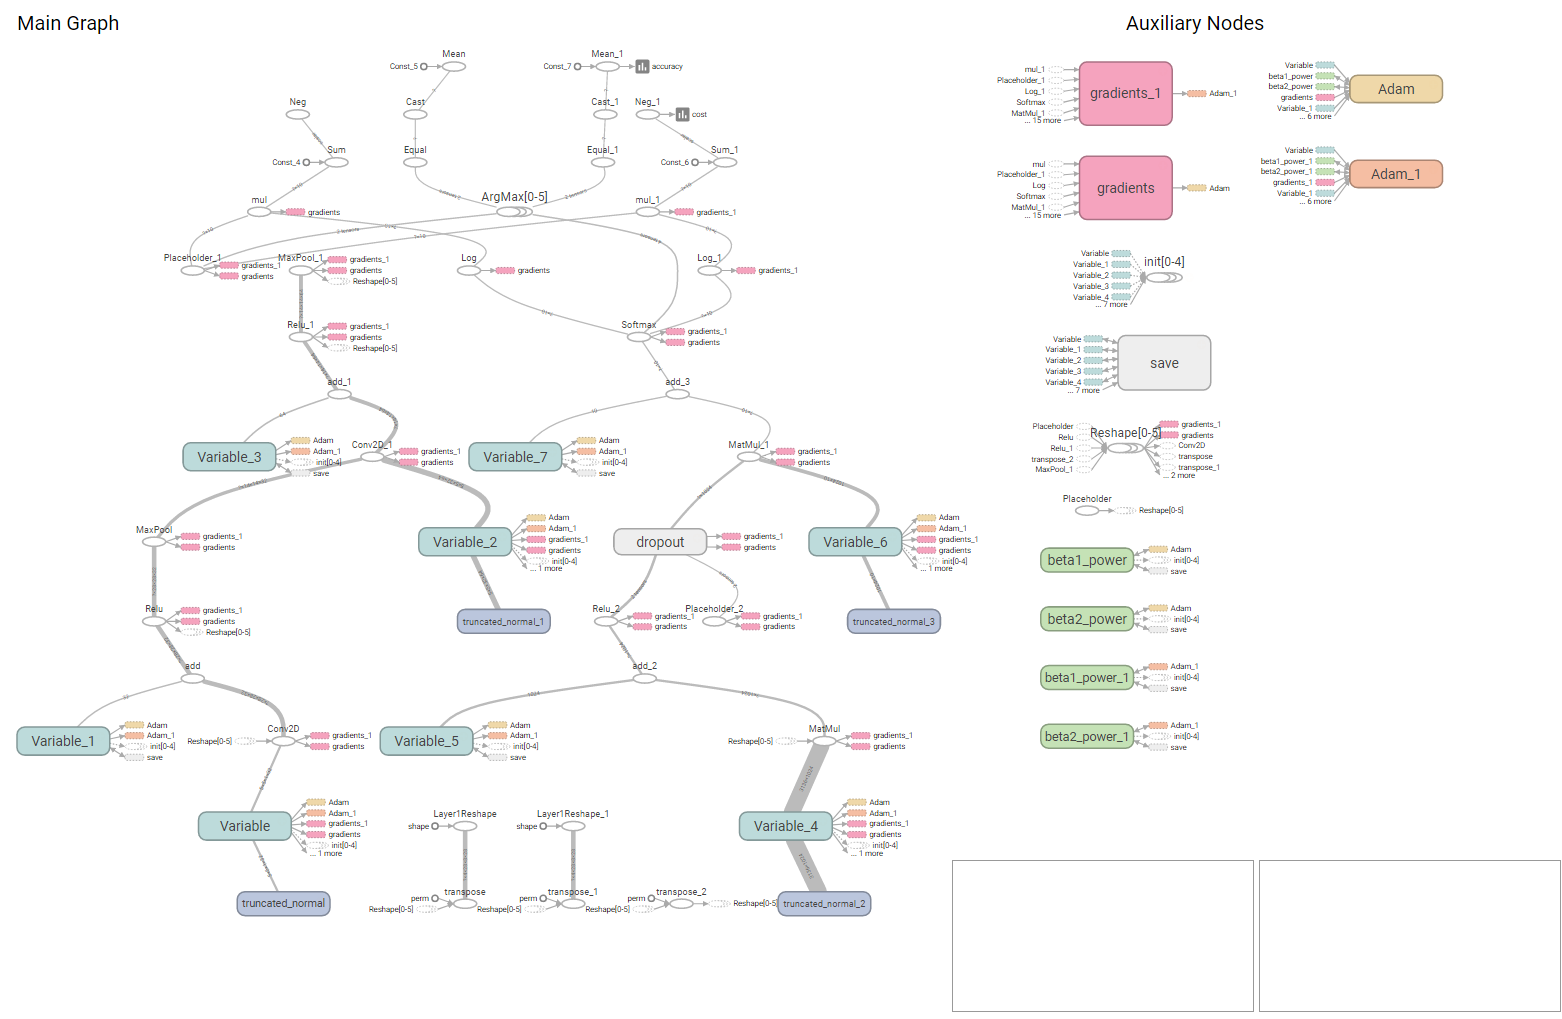
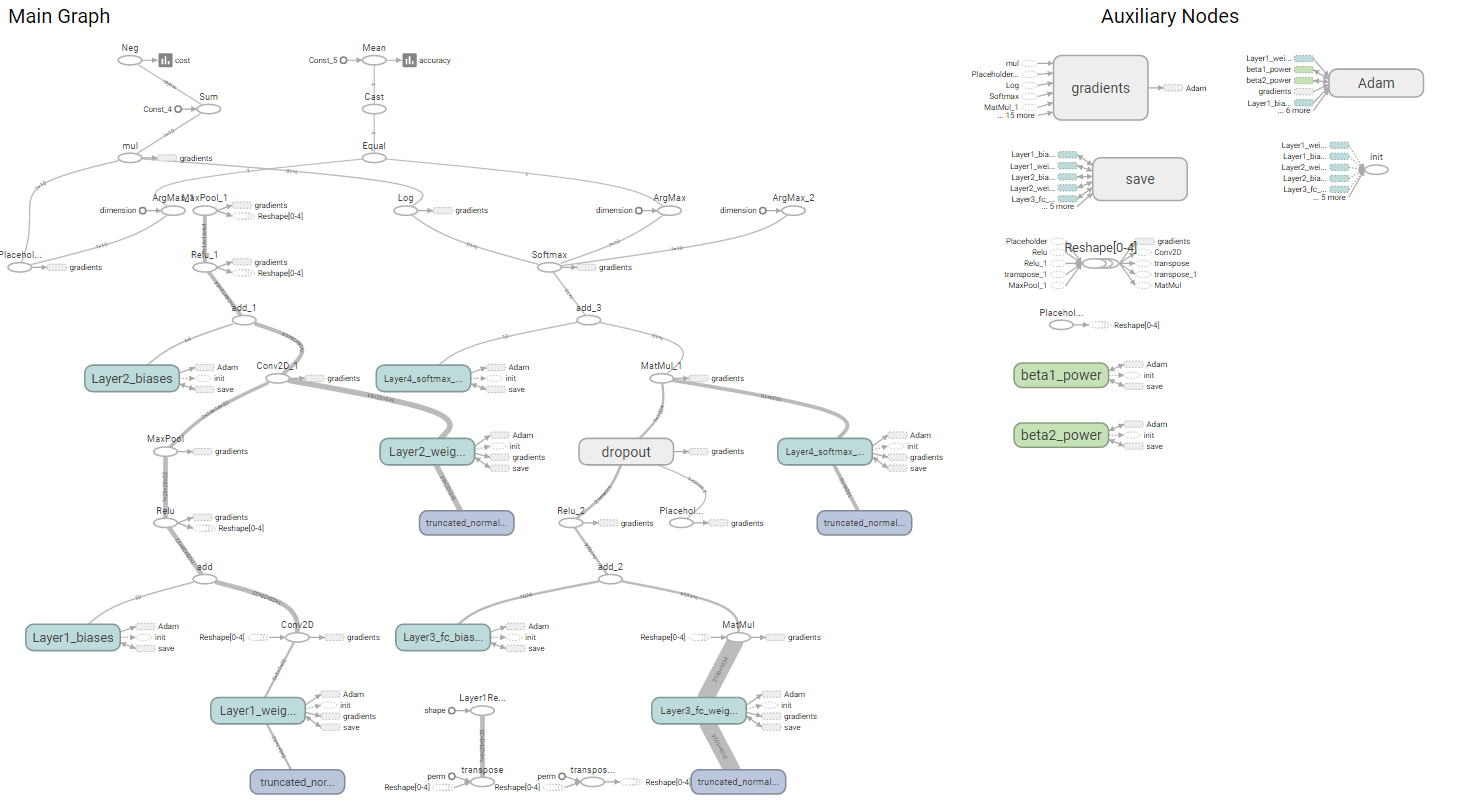
update notebook

diff --git a/tensorflow/images/digit_recognizer_mnist/tools.py b/tensorflow/images/digit_recognizer_mnist/tools.py
@@ -51,14 +51,14 @@ class Tools:
         return labels_one_hot
 
     @staticmethod
-    def weight_variable(shape):
+    def weight_variable(shape, name=None):
         initial = tf.truncated_normal(shape, stddev=0.1)
-        return tf.Variable(initial)
+        return tf.Variable(initial, name=name)
 
     @staticmethod
-    def bias_variable(shape):
+    def bias_variable(shape, name=None):
         initial = tf.constant(0.1, shape=shape)
-        return tf.Variable(initial)
+        return tf.Variable(initial, name=name)
 
     @staticmethod
     def convolution2d(x, w):

diff --git a/tensorflow/images/digit_recognizer_mnist/digitrecognizer_tf.py b/tensorflow/images/digit_recognizer_mnist/digitrecognizer_tf.py
@@ -184,7 +184,7 @@ if __name__ == "__main__":
         test_images = StandardScaler().fit_transform(np.float32(test_images.values))
         test_images = test_images.reshape(-1, 28, 28, 1)
         layer1_grid = layer1.eval(feed_dict={x: test_images[IMAGE_TO_DISPLAY:IMAGE_TO_DISPLAY + 1], keep_prob: 1.0})
-        plt.imshow(test_images[k, :, :, 0])
+        plt.imshow(test_images[IMAGE_TO_DISPLAY, :, :, 0])
         plt.show()
         print(predicted_labels[IMAGE_TO_DISPLAY])
         input('Generated test image layer1..press')
